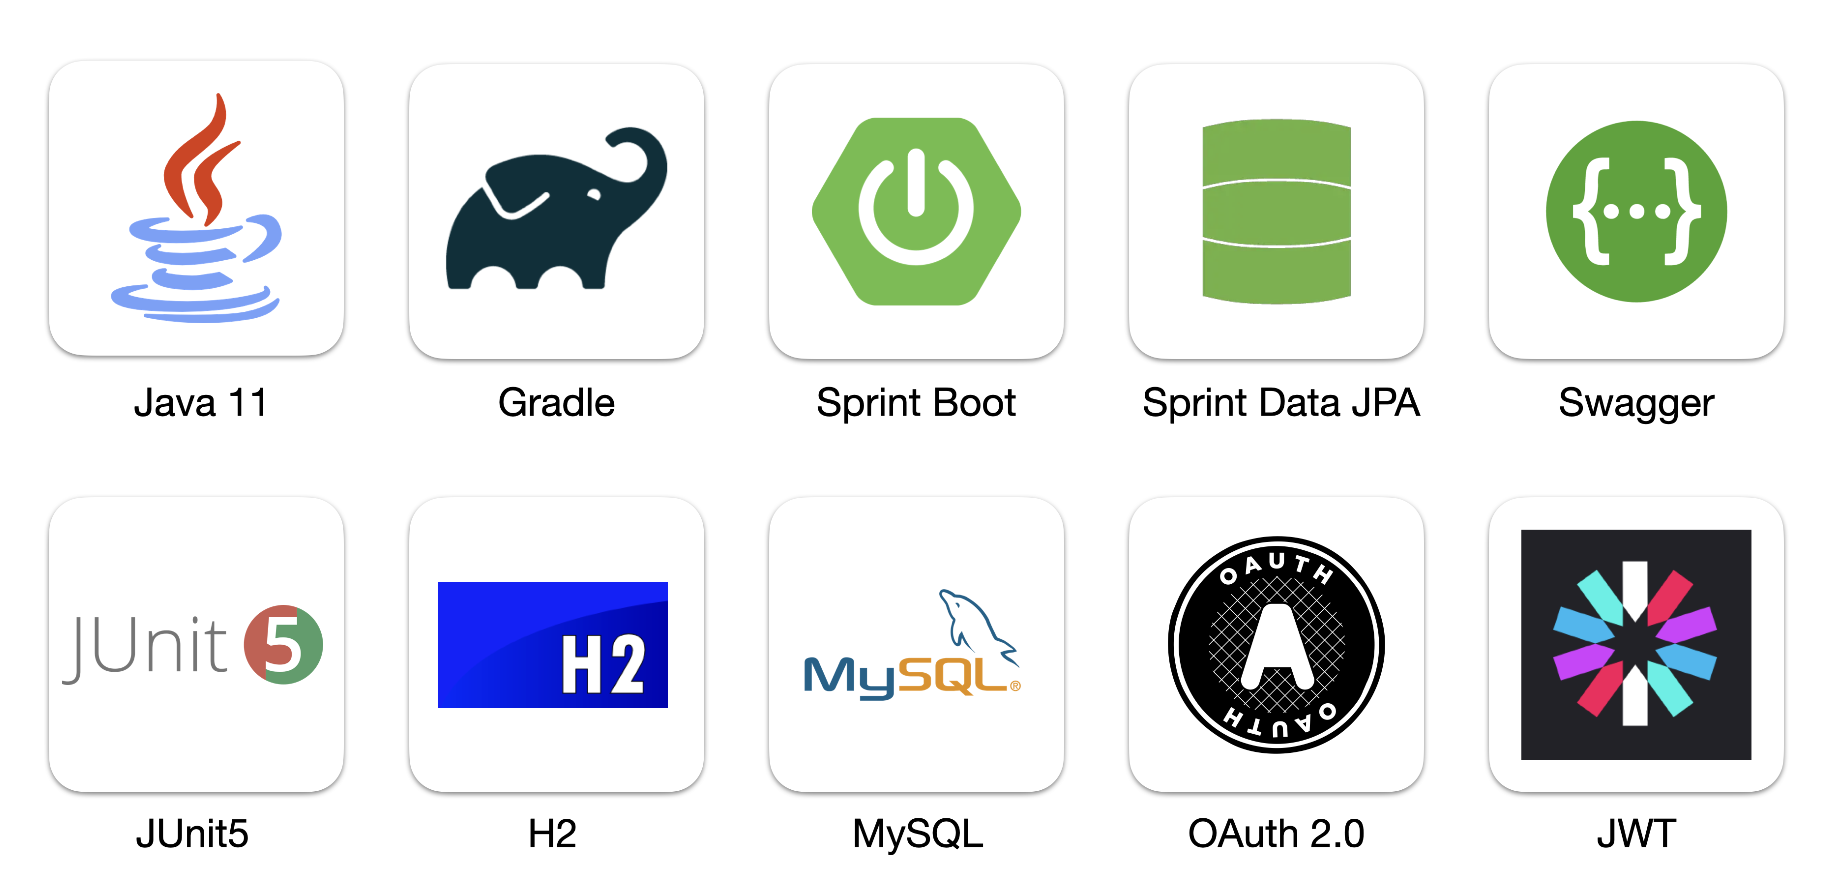
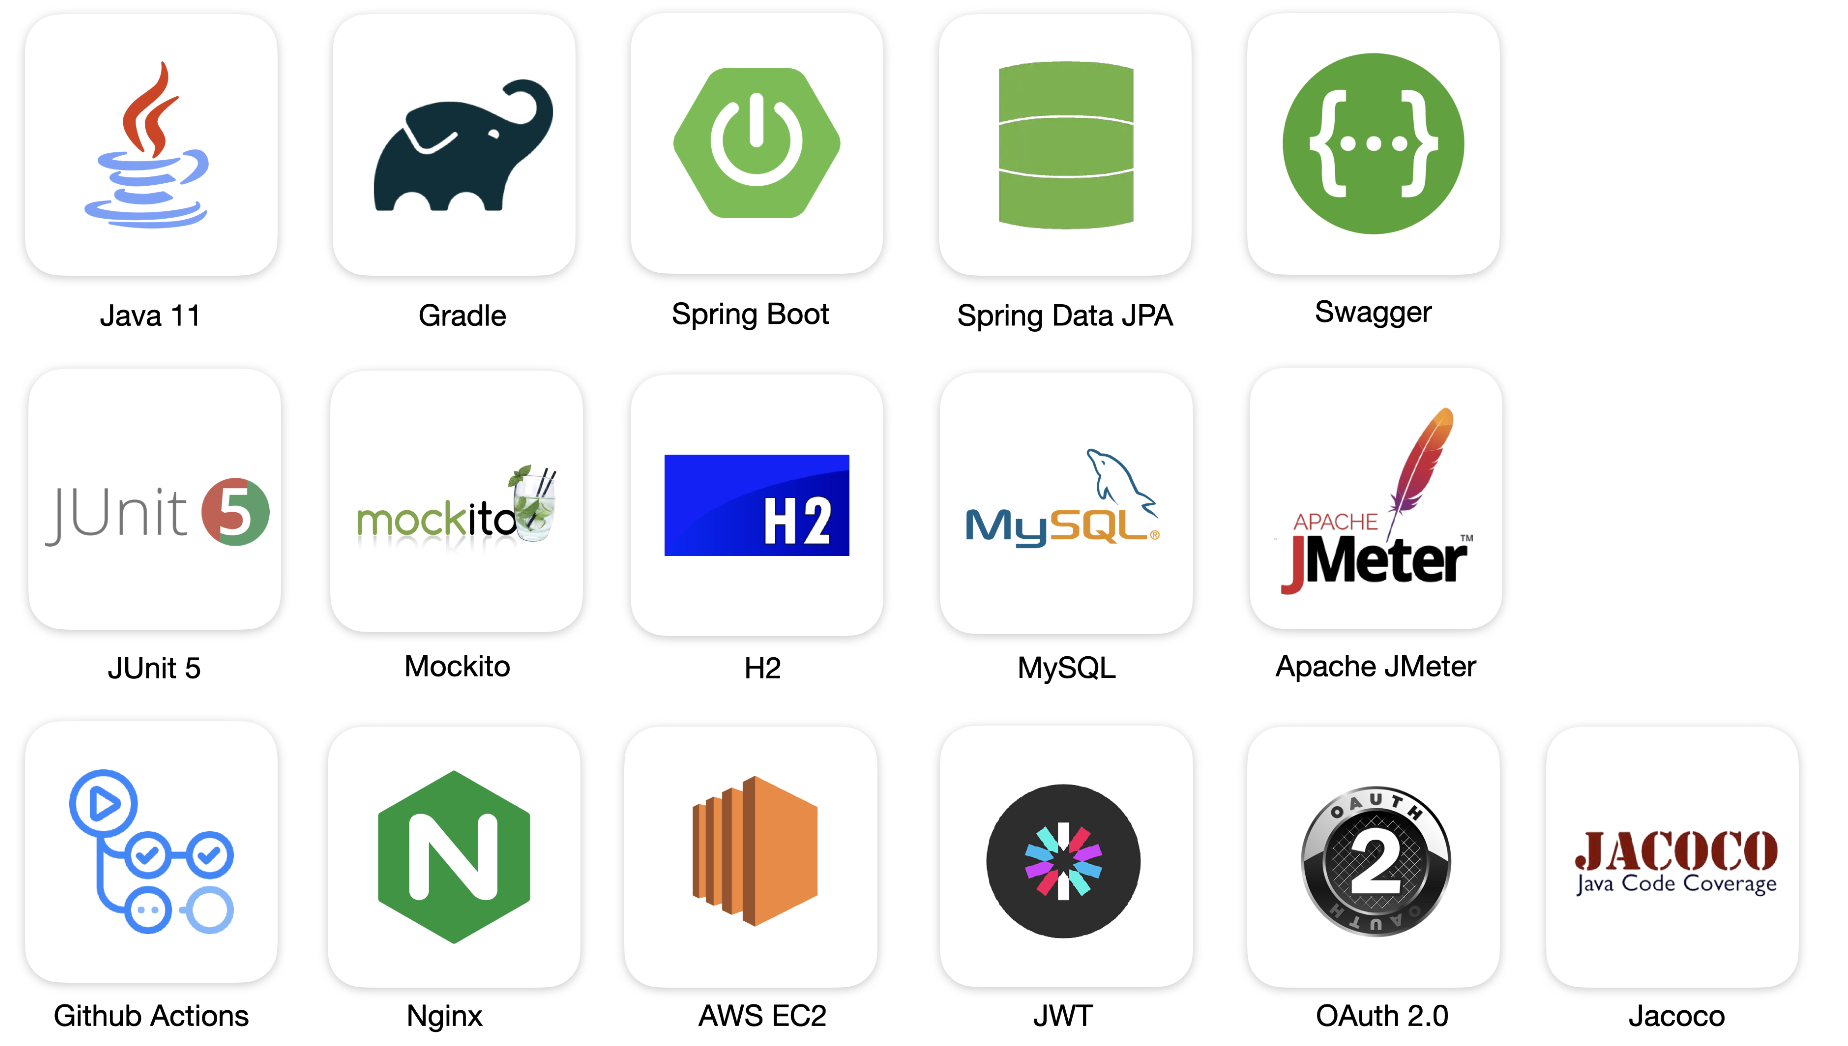
docs: version2에 맞게 Readme 수정

diff --git a/README.md b/README.md
@@ -1,3 +1,5 @@
+# Version2
+
 📌 해당 Repository는 [hibit-backend](https://github.com/hibit-team/hibit-backend) 프로젝트를 기반으로 **개선 작업**을 진행하고 있는 저장소입니다.
 
 현재는 백엔드의 코드와 인프라적인 구조를 고민하고 개선하는 작업을 진행하고 있습니다.
@@ -10,24 +12,11 @@
 
 예술 기반의 소셜 디스커버리 🎨 서비스
 
-[Linktree](https://linktr.ee/hibit.co.kr) |
-[Instagram](https://www.instagram.com/hibit.co.kr/) |
-[Wiki](https://github.com/hibit-team/hibit-backend/wiki) |
-[Client팀 Repository](https://github.com/hibit-team/hibit-frontend)
+히빗에 대한 서비스 소개를 더 자세히 알아보고 싶다면, [여기](https://ycat01.notion.site/28a5202c60344d978caa0d2745921049?pvs=4)를 클릭해주세요!
 
-## 🪧 서비스를 소개합니다.
+> [Version 1]에 대한 내용이 궁금하다면, [여기](https://github.com/hibit-team/hibit-backend)를 클릭해 주세요!
 
-`히빗`은 예술(전시)기반의 소셜 디스커버리 서비스입니다.
-
-### 🙆🏻♂ **서비스 대상자**
-
-1. 전시회를 가고싶지만 막상 혼자 가기가 두려운 사람.
-2. 예술에 대해 깊은 공감대를 형성할 수 있는 친구를 만들고 싶은 사람.
-3. 전시도 보고 밥도 먹고 다양한 사람들과 친해지고 싶은 사람.
-
-https://github.com/hibit-team/hibit-backend/assets/83820185/123f3261-f633-49f6-a414-3f816e01a247
-
-## 🏷 기능을 소개합니다.
+## 구현 기능
 
 ### 🧷 기능 1: `소셜 로그인` - 간편하게 로그인할 수 있어요.
 
@@ -35,135 +24,25 @@ https://github.com/hibit-team/hibit-backend/assets/83820185/123f3261-f633-49f6-a
 
 ![](/docs/readme/hibit-login-page.png)
 
-### 🧷 기능 2: `매칭` - 본인이 원하는 상대방과 연결해줘요.
-
-- 모집자로서 게시글을 작성하고 원하는 상대방에게 매칭 초대장을 전송할 수 있어요.
-- 모집자 & 신청자로서 댓글을 작성/수정/삭제하면서 쌍방향 소통할 수 있어요.
-- 모집자로서 댓글을 남긴 유저 중 함께 전시회를 가고 싶은 유저에게 초대장을 보낼 수 있어요.
-
-![](/docs/readme/hibit-board-page-only.png)
-
-### 🧷 기능 3: `프로필` - 상대방의 프로필 정보를 확인할 수 있어요.
+### 🧷 기능 2. `프로필` - 상대방의 프로필 정보를 확인할 수 있어요.
 
 - 매칭 시 필요한 프로필 정보를 입력할 수 있어요.
 - 상대방에게 노출 되는 프로필 정보의 수준을 허용 가능한 범위 내에서 선택할 수 있어요.
 
-![](/docs/readme/pc_other_profile_not_register_profile.png)
+### 🧷 기능 3. `게시글` - 본인이 원하는 상대방과 연결해줘요.
 
-### 🧷 기능 4: `알림` - 매칭 결과 및 댓글에 대한 답변을 받을 수 있어요.
+- 모집자로서 게시글을 작성하고 원하는 상대방에게 매칭 초대장을 전송할 수 있어요.
+- 신규 등록한 게시글을 모두 확인할 수 있어요.
+- 원하는 게시글을 검색을 통해 확인할 수 있어요.
 
-- 알림 목록에서 매칭 신청에 대한 결과, 댓글/대댓글 등의 알림을 수신할 수 있어요.
+## 🛠 Tech Stacks
 
-![](/docs/readme/hibit-alarm-page.png)
-
-### 🧷 기능 5: `신고` - 불건전한 내용을 신고할 수 있어요.
-
-- 유저가 댓글/대댓글/게시글을 신고할 수 있어요.
-- 신고 페이지에서는, 신고 종류를 선택한다 (ex: 광고성, 불건전한 등등) + 세부적인 내용 작성이 가능해요.
-- 자신이 이미 신고한 게시글/댓글/대댓글이라면 중복 신고는 불가능해요.
-- 신고가 접수되면, 관리자가 해당 신고 내용을 검토한다. 이후 신고내용이 타당하다면 회원 테이블(or 프로필 테이블)에 신고 횟수를 증가시켜줘요.
-
-![](/docs/readme/hibit-declaration.png)
-
-## 👩🏻🎨🧑🏻🎨 팀원 소개
-
-### Developer
-
-<table align=center>
-    <thead>
-        <tr >
-            <th style="text-align:center;" >박상준</th>
-            <th style="text-align:center;" >신현준</th>
-            <th style="text-align:center;" >최혜영</th>
-            <th style="text-align:center;" >문준용</th>
-        </tr>
-    </thead>
-    <tbody>
-        <tr>
-            <td><img width="200" src="https://avatars.githubusercontent.com/u/77184523?v=4" /> </td>
-            <td><img width="200" src="https://avatars.githubusercontent.com/u/78556338?v=4" /></td>
-            <td><img width="200" src="https://avatars.githubusercontent.com/u/56334375?v=4" /></td>
-            <td><img width="200" src="https://avatars.githubusercontent.com/u/83820185?v=4" /></td>
-        </tr>
-        <tr>
-            <td><a href="https://github.com/sangjun-Park1208">@sangjun-Park1208</a></td>
-            <td><a href="https://github.com/jake0319">@jake0319</a></td>
-            <td><a href="https://github.com/hyoung01">@hyoung01</a></td>
-            <td><a href="https://github.com/devFancy">@devFancy</a></td>
-        </tr>
-        <tr>
-            <td>Web</td>
-            <td>Web</td>
-            <td>Server</td>
-            <td>Server</td>
-        </tr>
-        <tr>
-            <td width="200"><br/>극대화된 사용자 경험을 위해 끊임없이 소통하는 FE 개발자입니다. 📢</td>
-            <td width="200"><br/>항상 더 나은 UX/UI 와 클라이언트 아키텍처를 고민하며 성장하는 개발자입니다. 💫</td>
-            <td width="200"><br/>도전과 경험을 즐기며 다양한 기회를 잡고 그 과정을 통해 성장하는 것을 좋아합니다. 📈</td>
-            <td width="200"><br/>문제를 해결한 것을 기록하고 공유하는 걸 좋아합니다. ✍🏻</td>
-        </tr>
-    </tbody>
-</table>
-
-### PM & Designer
-
-| [<img src="./docs/readme/jaemok-profile-img.jpg" width="200"/>](https://www.linkedin.com/in/jaemok-kim-ba8658235/) | <img src="./docs/readme/hj-profile.jpg" width="200"/> | <img src="./docs/readme/minsung-profile-img.jpg" width="200"/> |
-| :----------------------------------------------------------------------------------------------------------------: |:-----------------------------------------------------:| :------------------------------------------------------------: |
-|                                                      🌟 재목                                                       |                          현정                           |                         민성(Designer)                         |
-
-## 협업 문화
-
-### 스프린트 주기 - `1주`
-
-> 주간 회의 자료는 👉🏻[Wiki](https://github.com/hibit-team/hibit-backend/wiki/weekly-log)
-
-저희는 기획자, 디자이너, 개발자(FE, BE)로 구성되어 있습니다.
-
-- 기획자(김재목, 하현정), 디자이너(김민성), 개발자(FE - 박상준, 심현준 / BE - 최혜영, 문준용)
-
-스프린트는 매주 대면/비대면으로 진행되며, 협업 도구로는 `Jira`, `Confluence`, `Figma`, `Notion`, `Slack` 을 활용했습니다.
-
-![](/docs/readme/hibit-team-culture.png)
-
-### Git flow 전략
-
-![](/docs/readme/hibit-git-flow.png)
-
-## ⚙ 기술 스택
-
-### 프론트엔드
-
-![](docs/readme/hibit-frontend_stack.png)
-
-**Language |** Javascript, Typescript
-
-**Framework |** React
-
-**Library |** React Router, React Query, Axios, Emotion
-
-**Build |** Webpack, Babel
-
-### 백엔드
+### Backend
 
 ![](docs/readme/hibit-backend_stack.png)
 
-**Language |** Java 11
+## ⚙ Infrastructure
 
-**Framework |** Spring 5.3.21 (Spring Boot 2.7.1, Spring MVC 5.3.1, Spring Data JPA 2.7.1)
+![](docs/readme/hibit_infrastructure-1.png)
 
-**Build Tool |** Gradle 7.4.1
-
-**Test |** Junit 5
-
-**Docs |** Swagger
-
-### 인프라
-
-![](docs/readme/hibit-tech-infra.png)
-
-**Infra |** AWS EC2, AWS RDS, AWS S3, Nginx
-
-**DB |** H2, MySQL 8
-
-**CI/CD |** Git, GitHub Action, Docker
+![](docs/readme/hibit_infrastructure-2.png)
